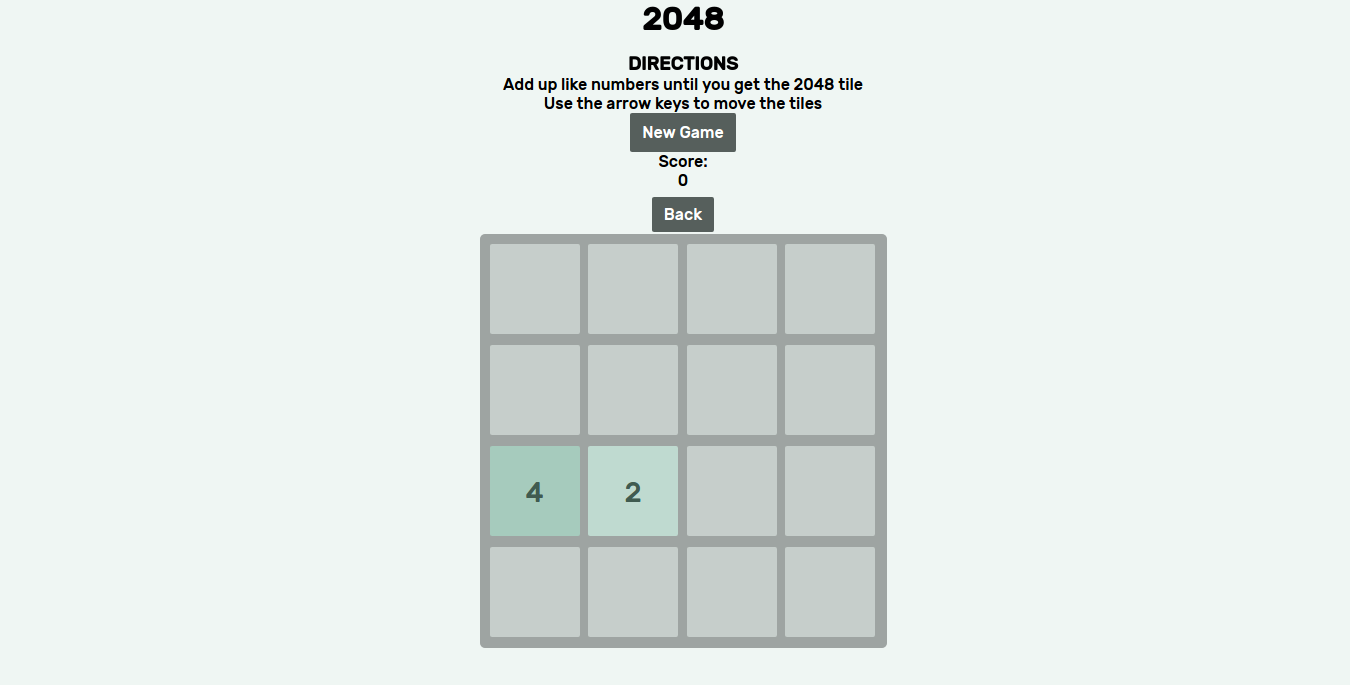
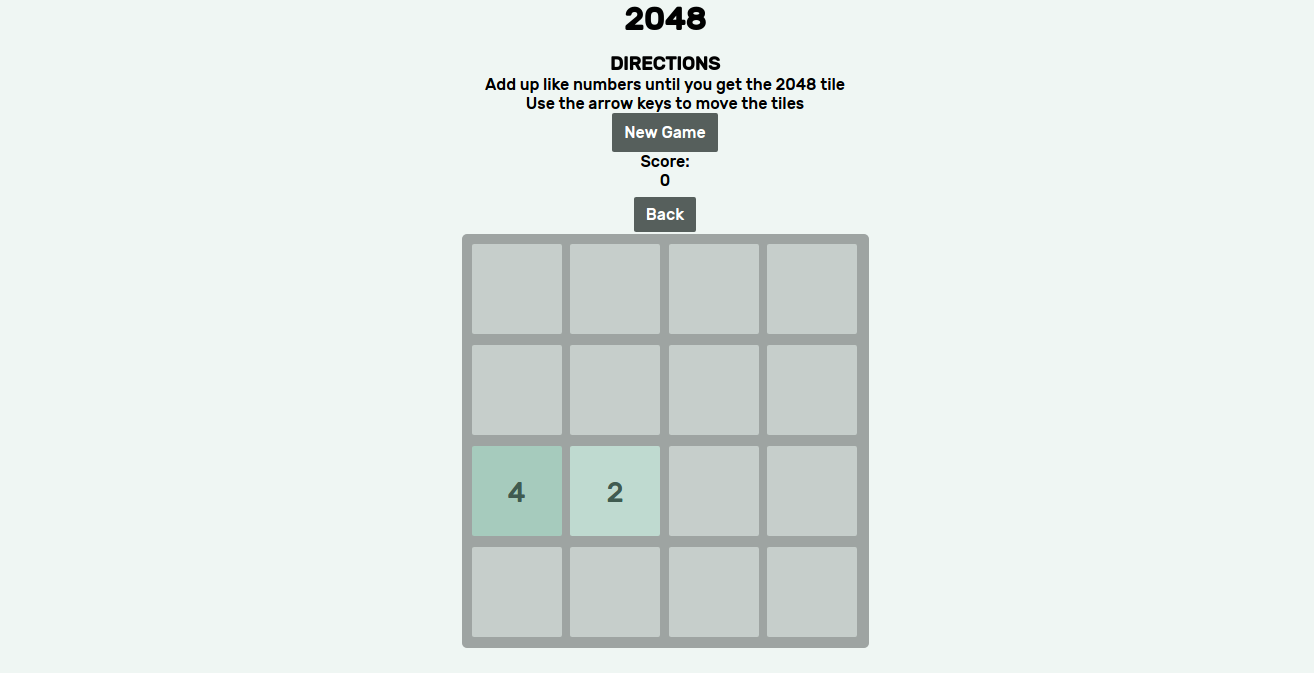
resize work imgs and fix link styling

Changed region(s): [[0.3432, 0.0, 0.6865, 0.9673], [0.4368, 0.7177, 0.4992, 0.7489]]

diff --git a/index.html b/index.html
@@ -57,14 +57,14 @@
             <h2>work</h2>
             <div class="content-description col-4">
               <ul>
-                <li><a id="cw" class="project-link" href="#">Concrete + Water</a></li>
-                <li><a id="2048" class="project-link" href="#">2048 Clone</a></li>
-                <li><a id="yonder" class="project-link" href="#">Yonder</a></li>
-                <li><a id="in" class="project-link" href="#">In</a></li>
+                <li class="project-links"><a onclick="clickSingleA(this)" id="cw" class="project-link active" href="#">Concrete + Water</a></li>
+                <li class="project-links"><a onclick="clickSingleA(this)" id="2048" class="project-link" href="#">2048 Clone</a></li>
+                <li class="project-links"><a onclick="clickSingleA(this)" id="yonder" class="project-link" href="#">Yonder</a></li>
+                <li class="project-links"><a onclick="clickSingleA(this)" id="in" class="project-link" href="#">In</a></li>
               </ul>
             </div>
             <div class="content-description col-8">
-              <div id="cw-div" class="active">
+              <div id="cw-div" class="work-des-div active">
                 <div class="work-img-div">
                   <img class="work-img" src="./assets/imgs/work/cw-img.png" alt="cw" />
                 </div>
@@ -75,8 +75,8 @@
                 </div>
               </div>
 
-              <div id="2048-div" class="inactive">
-                <div class="work-img">
+              <div id="2048-div" class="work-des-div inactive">
+                <div class="work-img-div">
                   <img class="work-img" src="./assets/imgs/work/2048-img.png" alt="2048" />
                 </div>
                 <div class="work-des">
@@ -86,19 +86,36 @@
                 </div>
               </div>
 
-              <div id="yonder-div" class="inactive">
-                <div class="work-img">
+              <div id="yonder-div" class="work-des-div inactive">
+                <div class="work-img-div">
                   <img class="work-img" src="./assets/imgs/work/yonder-img.png" alt="yonder" />
                 </div>
                 <div class="work-des">
                   <p>
-                    Lorem ipsum dolor sit amet, consectetur adipisicing elit, sed do eiusmod tempor incididunt ut labore et dolore magna aliqua. Ut enim ad minim veniam, quis nostrud exercitation ullamco laboris nisi ut aliquip ex ea commodo consequat. Duis aute irure dolor in reprehenderit in voluptate velit esse cillum dolore eu fugiat nulla pariatur. Excepteur sint occaecat cupidatat non proident, sunt in culpa qui officia deserunt mollit anim id est laborum.
+                    Yonder helps pastoralist communities around the world preserve their livelihood, by providing them access to information and resources (e.g grass land, water sources, safe routes) to prepare and support their migration journey.
+                  </p>
+                  <p>
+                    The objective of the project is to design a working prototype for a mobile/web application which provides pastoralist communities with information on land monitoring: water availability, grassland, and assist communities in networking.
+                  </p>
+                  <p>
+                    We developed 3 possible mediums to accommodate the widest possible range of users : A web app, a mobile app, and an SMS-based service. Our solutions are deliberately lo-fi because of the likelihood of slow internet connections or none at all.
+                  </p>
+                  <p>
+                    Technologies:
+                    <ul>
+                      <li>Waterpoint Data Exchange (Socrata) for data on water sources.</li>
+                      <li>Weather Underground API for weather data and alerts.</li>
+                      <li>Twilio API for SMS service.</li>
+                    </ul>
+                  </p>
+                  <p>
+                    Yonder was awarded the prize for "Greatest Galactic Impact" at NASA Space Apps Challenge 2016 NYC.
                   </p>
                 </div>
               </div>
 
-              <div id="in-div" class="inactive">
-                <div class="work-img">
+              <div id="in-div" class="work-des-div inactive">
+                <div class="work-img-div">
                   <img class="work-img" src="./assets/imgs/work/" alt="" />
                 </div>
                 <div class="work-des">

diff --git a/assets/stylesheets/default.css b/assets/stylesheets/default.css
@@ -88,11 +88,7 @@ header h1, header a {
   color: #3c3c3c;
   font-size: 2.5em;
   letter-spacing: -0.09em;
-  line-height: 0.67em;
-}
-
-.horse-color {
-  color: #B5B5B5;
+  line-height: 0.7em;
 }
 
 nav {
@@ -127,7 +123,7 @@ main {
   font-family: 'Varela Round', sans-serif;
   top: 100px;
   max-height: 410px;
-  border-radius: 10px;
+  border-radius: 1px;
   position: relative;
   display: none;
   box-shadow: 0 4px 8px 0 rgba(0, 0, 0, 0.2), 0 6px 40px 0 rgba(0, 0, 0, 0.19);
@@ -188,13 +184,17 @@ main {
   padding: 0;
 }
 
-#content-work li:hover {
-  font-size: 2em;
-}
-
 #content-work .project-link {
   text-decoration: none;
   color: inherit;
+}
+
+.project-link:hover, .project-link.active {
+  font-size: 1.5em;
+}
+
+.work-img-div {
+  margin: auto;
 }
 
 .work-img {
@@ -202,9 +202,13 @@ main {
   border: 1px solid #b5b5b5;
 }
 
+.work-des p {
+  padding-left: 0px;
+}
+
 .content-description {
   padding: 0 15px 0 0;
-  overflow-y: scroll;
+  overflow-y: auto;
   overflow-x: hidden;
   max-height: 306px;
 }

diff --git a/assets/js/home.js b/assets/js/home.js
@@ -59,11 +59,11 @@ $(document).ready(function(){
     e.preventDefault;
     var divId = this.id + '-div';
 
-    $(this).css('font-size', '2em');
-    $('#' + divId).removeClass();
+    $('.work-des-div').removeClass('active');
+    $('.work-des-div').addClass('inactive');
+    $('#' + divId).removeClass('inactive');
     $('#' + divId).addClass('active');
-
-  })
+  });
 
   $('.email-form-input').on('blur', function(){
     var $errorDiv = $(this).parent().find('span[id=' + $(this).prop('name') + '-validation]');
@@ -99,3 +99,12 @@ $(document).ready(function(){
     }
   })
 })
+
+function clickSingleA(a){
+  items = document.querySelectorAll('.project-link.active');
+
+  if(items.length){
+    items[0].className = 'project-link';
+  }
+  a.className = 'project-link active';
+}
